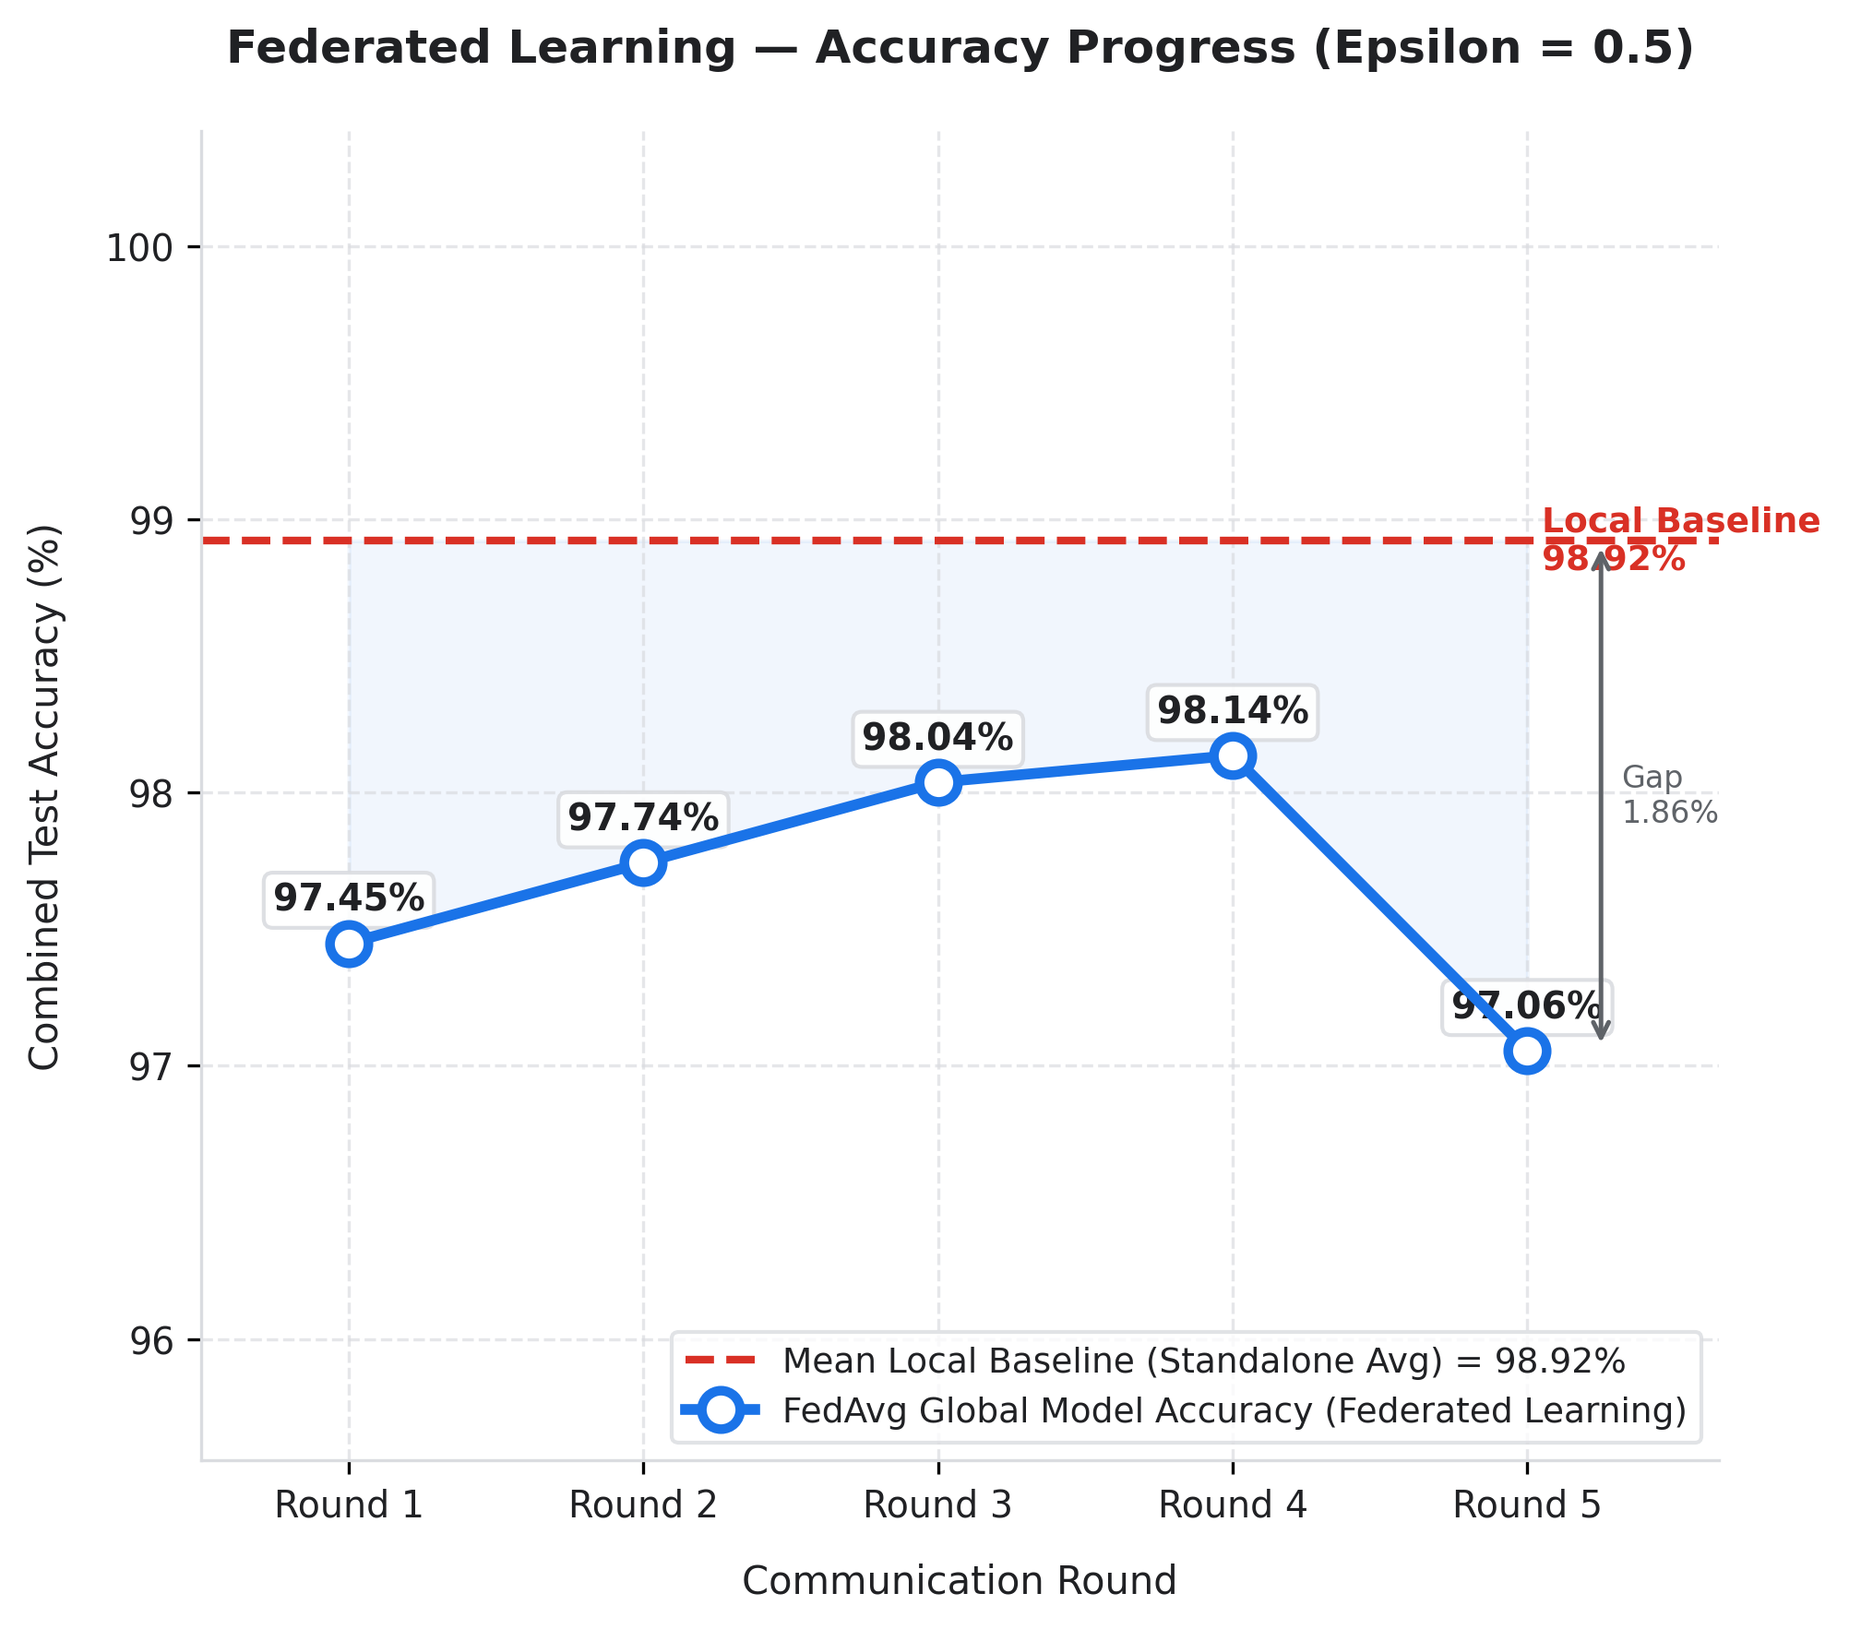
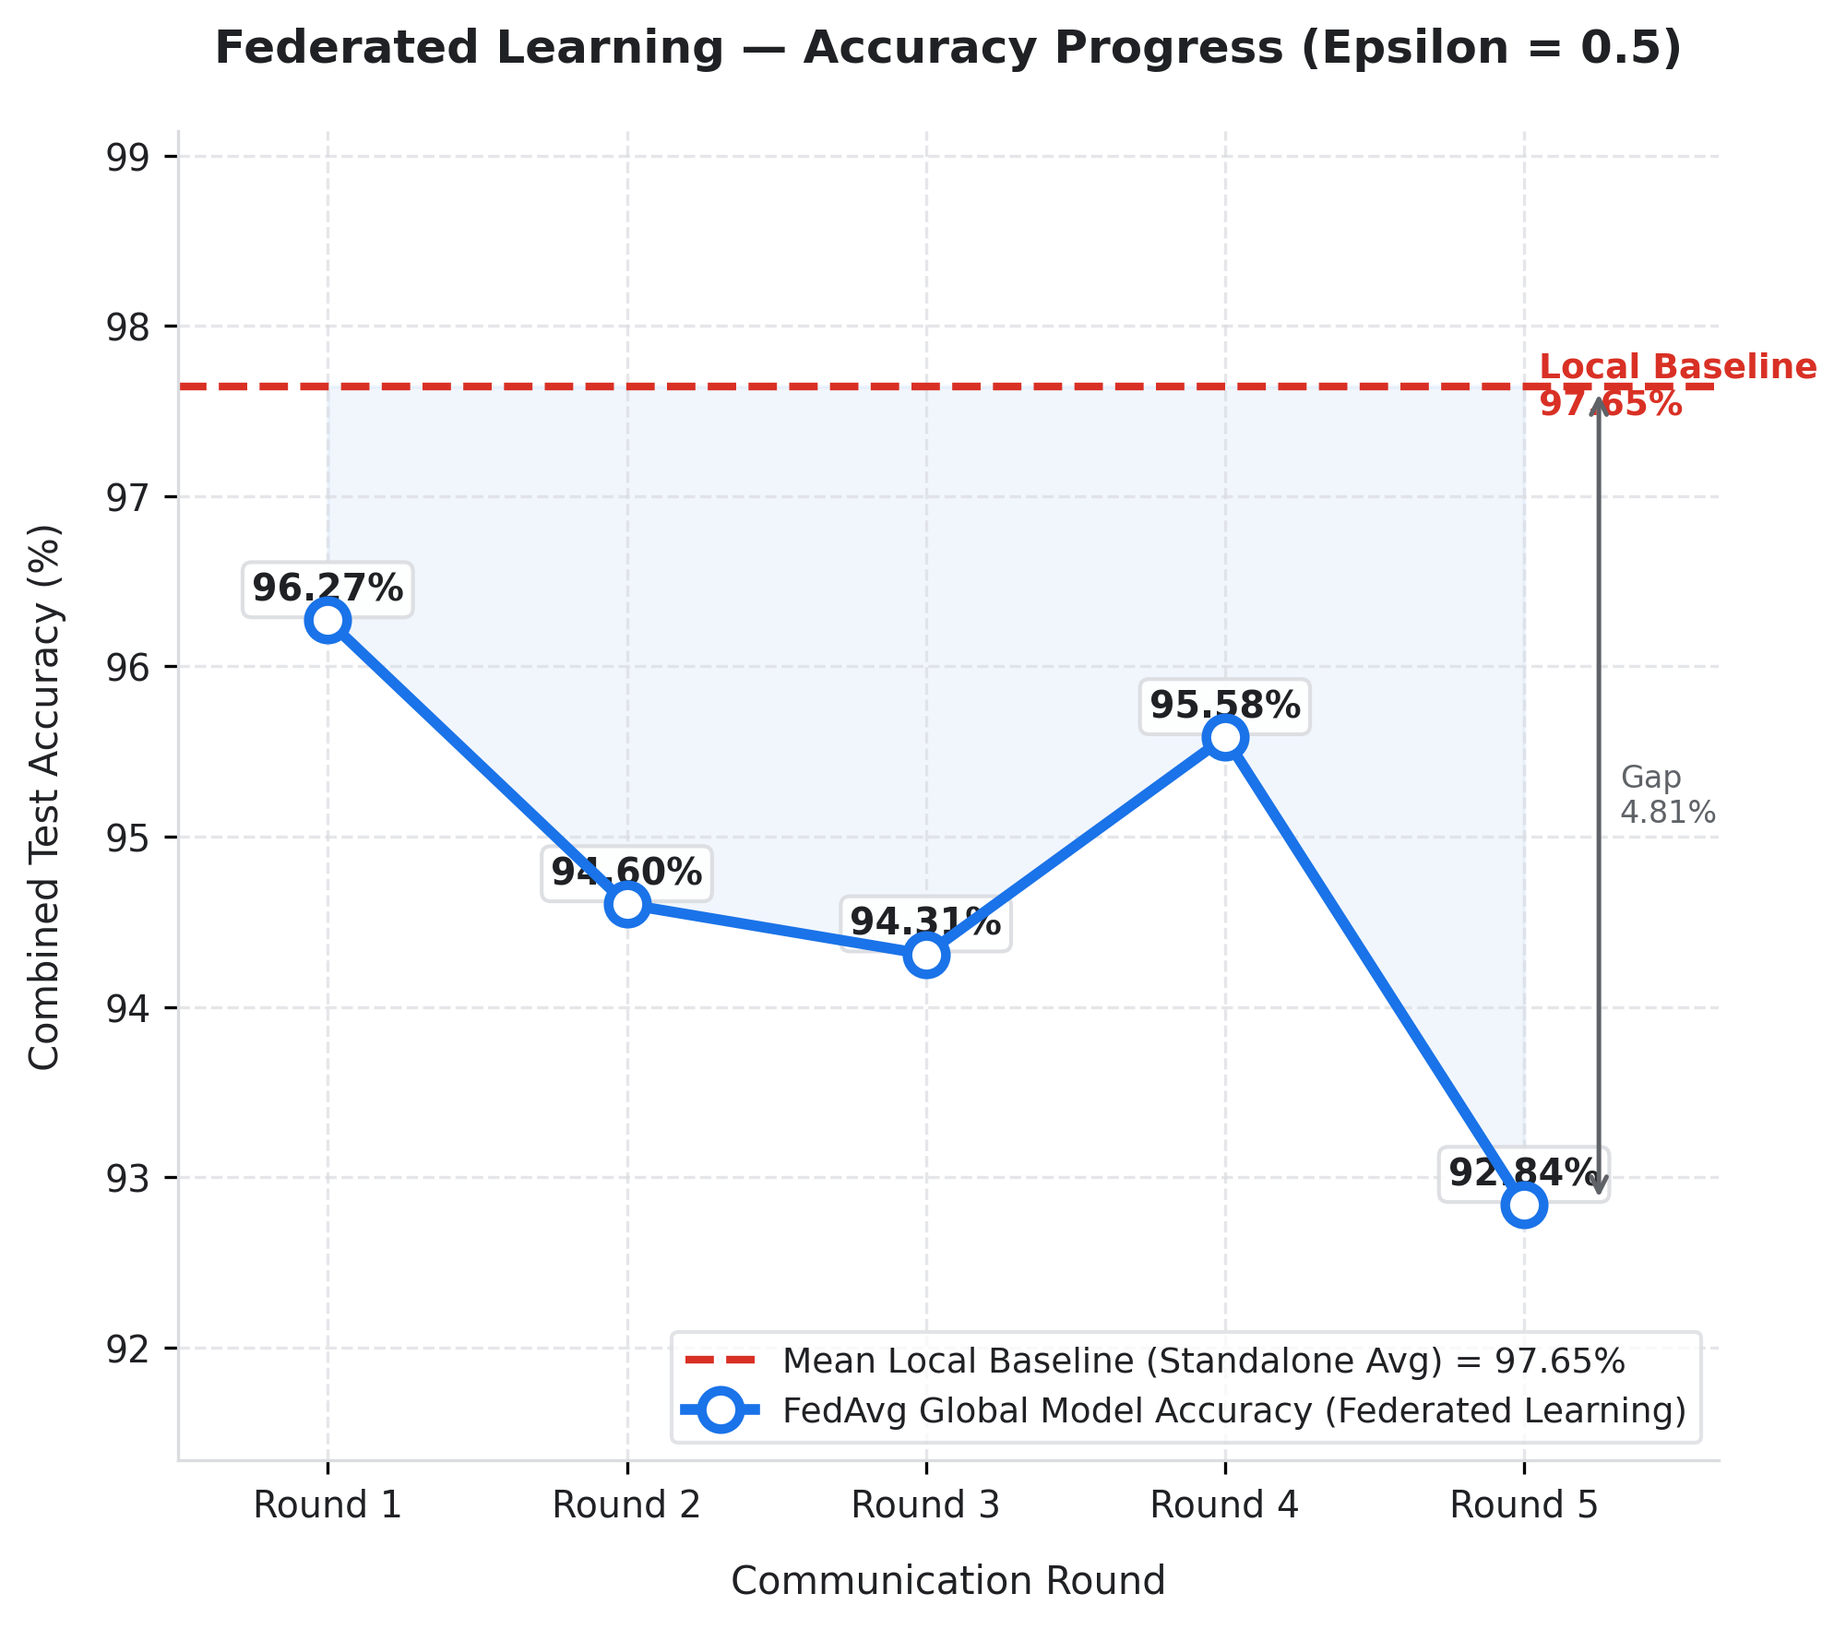
Fix model step counter decay bug and correct DP sensitivity calculation

diff --git a/machine.py b/machine.py
@@ -1,0 +1,103 @@
+# -*- coding: utf-8 -*-
+"""
+Standalone Client Execution Script
+Evaluates Machine 1, Machine 2, and Machine 3 independently without Federated Aggregation.
+"""
+
+import sys
+import os
+import argparse
+import warnings
+from sklearn.metrics import accuracy_score, confusion_matrix
+
+sys.stdout.reconfigure(encoding='utf-8', errors='replace')
+warnings.filterwarnings('ignore')
+
+from machine1 import Machine1
+from machine2 import Machine2
+from machine3 import Machine3
+
+def main():
+    parser = argparse.ArgumentParser(description="Standalone Client Evaluation")
+    parser.add_argument("--no-dp", action="store_true", help="Run without Differential Privacy")
+    parser.add_argument("-e", "--epsilon", type=float, default=None, help="Privacy Budget (Epsilon)")
+    args, unknown = parser.parse_known_args()
+
+    use_dp = not args.no_dp
+
+    print("================================================================")
+    print("Standalone Client Execution")
+    if not use_dp:
+        global_epsilon = 0.5
+        print("Differential Privacy: Disabled")
+    else:
+        if args.epsilon is not None:
+            global_epsilon = args.epsilon
+        else:
+            try:
+                user_eps = input("Enter Privacy Budget (Epsilon) [default: 0.5]: ").strip()
+                global_epsilon = float(user_eps) if user_eps else 0.5
+            except Exception:
+                global_epsilon = 0.5
+
+        if global_epsilon <= 0:
+            print("Error: Epsilon must be strictly greater than 0.")
+            sys.exit(1)
+
+        print(f"Differential Privacy: Enabled (Epsilon = {global_epsilon})")
+    print("================================================================\n")
+
+    m1 = Machine1(epsilon=global_epsilon)
+    m2 = Machine2(epsilon=global_epsilon)
+    m3 = Machine3(epsilon=global_epsilon)
+
+    clients = [m1, m2, m3]
+    names = ["Machine 1", "Machine 2", "Machine 3"]
+
+    print("Evaluating standalone models...")
+    print("-" * 55)
+
+    local_accuracies = []
+    all_y_true = []
+    all_y_pred = []
+
+    for idx, m in enumerate(clients):
+        m.initialize_model()
+        m.local_train(epochs=15)
+
+        if use_dp:
+            coef, intercept = m.get_dp_weights()
+            m.set_weights(coef, intercept)
+        else:
+            coef, intercept = m.get_weights()
+
+        X_te, y_te = m.get_test_data()
+        preds = m.model.predict(X_te)
+        acc = accuracy_score(y_te, preds)
+
+        local_accuracies.append(acc)
+        all_y_true.extend(y_te)
+        all_y_pred.extend(preds)
+
+        print(f"  {names[idx]:<12} | Train Samples: {m.get_train_size():<5} | Test Accuracy: {acc*100:.2f}%")
+
+    print("\n=================== LOCAL MODELS SUMMARY ===================")
+    print(f"  {'Client':<15} {'Train Samples':>15} {'Test Accuracy':>15}")
+    print(f"  {'-'*47}")
+    for idx in range(len(clients)):
+        sample_cnt = clients[idx].get_train_size()
+        print(f"  {names[idx]:<15} {sample_cnt:>15} {local_accuracies[idx]*100:>14.2f}%")
+    print(f"  {'-'*47}\n")
+
+    class_names = ['Normal', 'Mild Event', 'Moderate Event', 'Severe Event']
+    cm = confusion_matrix(all_y_true, all_y_pred, labels=[0, 1, 2, 3])
+
+    print("Combined Confusion Matrix:")
+    print(f"  {'Actual / Predicted':<20} {'Normal':<10} {'Mild':<10} {'Moderate':<10} {'Severe':<10}")
+    print(f"  {'-'*64}")
+    for i, name in enumerate(class_names):
+        print(f"  {name:<20} {cm[i, 0]:<10} {cm[i, 1]:<10} {cm[i, 2]:<10} {cm[i, 3]:<10}")
+    print()
+
+if __name__ == "__main__":
+    main()

diff --git a/machine1.py b/machine1.py
@@ -16,7 +16,7 @@ from sklearn.model_selection import train_test_split
 
 # ── CONFIG ─────────────────────────────────────────────────
 DATA_FILE   = os.path.join(os.path.dirname(__file__), "machine1_data.json")
-ALPHA       = 0.01   # Regularization parameter
+ALPHA       = 0.1   # Regularization parameter
 SEED        = 42
 
 class Machine1:
@@ -63,6 +63,11 @@ class Machine1:
         self.n_samples = len(self.X_train)
 
     def initialize_model(self):
+        # Recreate model to reset step counter t_ and optimizer state completely
+        self.model = SGDClassifier(
+            loss='log_loss', penalty='l2', alpha=self.alpha,
+            fit_intercept=True, warm_start=True, random_state=SEED
+        )
         # Call partial_fit once with dummy subset to initialize weights shape
         self.model.partial_fit(self.X_train[:4], [0, 1, 2, 3], classes=[0, 1, 2, 3])
         # Reset initialized weights to zero
@@ -77,6 +82,8 @@ class Machine1:
         """Updates local model weights with global weights."""
         self.model.coef_ = coef.copy()
         self.model.intercept_ = intercept.copy()
+        # Reset step counter so local training starts with a fresh learning rate schedule
+        self.model.t_ = 1.0
 
     def local_train(self, epochs=5):
         """Trains local model for a few epochs on local training set."""
@@ -88,16 +95,20 @@ class Machine1:
         Applies Laplace Output Perturbation DP to local weights.
         
         Sensitivity Formula:
-            L2 Sensitivity ΔW = 2 / (N * alpha)
-            where N = local sample size, alpha = L2 regularization strength.
+            L2 Sensitivity ΔW = 2 * R / (N * alpha)
+            where N = local sample size, alpha = L2 regularization strength,
+            and R = maximum L2 norm of the input feature vectors.
             
         Laplace Scale:
             b = ΔW / epsilon
         """
         coef, intercept = self.get_weights()
         
+        # Calculate maximum L2 norm of the features
+        R = np.max(np.linalg.norm(self.X_train, axis=1))
+        
         # Calculate sensitivity and noise scale
-        sensitivity = 2.0 / (self.n_samples * self.alpha)
+        sensitivity = (2.0 * R) / (self.n_samples * self.alpha)
         scale = sensitivity / self.epsilon
         
         # Generate and add Laplace noise
@@ -116,9 +127,10 @@ class Machine1:
         return self.n_samples
 
     def get_dp_info(self):
-        sensitivity = 2.0 / (self.n_samples * self.alpha)
+        R = np.max(np.linalg.norm(self.X_train, axis=1))
+        sensitivity = (2.0 * R) / (self.n_samples * self.alpha)
         scale = sensitivity / self.epsilon
-        return f"Output Perturbation DP | Sensitivity={sensitivity:.6f} | Scale={scale:.6f}"
+        return f"Output Perturbation DP | Sensitivity={sensitivity:.6f} | Scale={scale:.6f} | MaxNorm(R)={R:.4f}"
 
 # ── STANDALONE TEST ────────────────────────────────────────
 if __name__ == "__main__":

diff --git a/machine2.py b/machine2.py
@@ -16,7 +16,7 @@ from sklearn.model_selection import train_test_split
 
 # ── CONFIG ─────────────────────────────────────────────────
 DATA_FILE   = os.path.join(os.path.dirname(__file__), "machine2_data.json")
-ALPHA       = 0.01   # Regularization parameter
+ALPHA       = 0.1   # Regularization parameter
 SEED        = 42
 
 class Machine2:
@@ -63,6 +63,11 @@ class Machine2:
         self.n_samples = len(self.X_train)
 
     def initialize_model(self):
+        # Recreate model to reset step counter t_ and optimizer state completely
+        self.model = SGDClassifier(
+            loss='log_loss', penalty='l2', alpha=self.alpha,
+            fit_intercept=True, warm_start=True, random_state=SEED
+        )
         # Call partial_fit once with dummy subset to initialize weights shape
         self.model.partial_fit(self.X_train[:4], [0, 1, 2, 3], classes=[0, 1, 2, 3])
         # Reset initialized weights to zero
@@ -77,6 +82,8 @@ class Machine2:
         """Updates local model weights with global weights."""
         self.model.coef_ = coef.copy()
         self.model.intercept_ = intercept.copy()
+        # Reset step counter so local training starts with a fresh learning rate schedule
+        self.model.t_ = 1.0
 
     def local_train(self, epochs=5):
         """Trains local model for a few epochs on local training set."""
@@ -88,16 +95,20 @@ class Machine2:
         Applies Laplace Output Perturbation DP to local weights.
         
         Sensitivity Formula:
-            L2 Sensitivity ΔW = 2 / (N * alpha)
-            where N = local sample size, alpha = L2 regularization strength.
+            L2 Sensitivity ΔW = 2 * R / (N * alpha)
+            where N = local sample size, alpha = L2 regularization strength,
+            and R = maximum L2 norm of the input feature vectors.
             
         Laplace Scale:
             b = ΔW / epsilon
         """
         coef, intercept = self.get_weights()
         
+        # Calculate maximum L2 norm of the features
+        R = np.max(np.linalg.norm(self.X_train, axis=1))
+        
         # Calculate sensitivity and noise scale
-        sensitivity = 2.0 / (self.n_samples * self.alpha)
+        sensitivity = (2.0 * R) / (self.n_samples * self.alpha)
         scale = sensitivity / self.epsilon
         
         # Generate and add Laplace noise
@@ -116,9 +127,10 @@ class Machine2:
         return self.n_samples
 
     def get_dp_info(self):
-        sensitivity = 2.0 / (self.n_samples * self.alpha)
+        R = np.max(np.linalg.norm(self.X_train, axis=1))
+        sensitivity = (2.0 * R) / (self.n_samples * self.alpha)
         scale = sensitivity / self.epsilon
-        return f"Output Perturbation DP | Sensitivity={sensitivity:.6f} | Scale={scale:.6f}"
+        return f"Output Perturbation DP | Sensitivity={sensitivity:.6f} | Scale={scale:.6f} | MaxNorm(R)={R:.4f}"
 
 # ── STANDALONE TEST ────────────────────────────────────────
 if __name__ == "__main__":

diff --git a/machine3.py b/machine3.py
@@ -16,7 +16,7 @@ from sklearn.model_selection import train_test_split
 
 # ── CONFIG ─────────────────────────────────────────────────
 DATA_FILE   = os.path.join(os.path.dirname(__file__), "machine3_data.json")
-ALPHA       = 0.01   # Regularization parameter
+ALPHA       = 0.1   # Regularization parameter
 SEED        = 42
 
 class Machine3:
@@ -63,6 +63,11 @@ class Machine3:
         self.n_samples = len(self.X_train)
 
     def initialize_model(self):
+        # Recreate model to reset step counter t_ and optimizer state completely
+        self.model = SGDClassifier(
+            loss='log_loss', penalty='l2', alpha=self.alpha,
+            fit_intercept=True, warm_start=True, random_state=SEED
+        )
         # Call partial_fit once with dummy subset to initialize weights shape
         self.model.partial_fit(self.X_train[:4], [0, 1, 2, 3], classes=[0, 1, 2, 3])
         # Reset initialized weights to zero
@@ -77,6 +82,8 @@ class Machine3:
         """Updates local model weights with global weights."""
         self.model.coef_ = coef.copy()
         self.model.intercept_ = intercept.copy()
+        # Reset step counter so local training starts with a fresh learning rate schedule
+        self.model.t_ = 1.0
 
     def local_train(self, epochs=5):
         """Trains local model for a few epochs on local training set."""
@@ -88,16 +95,20 @@ class Machine3:
         Applies Laplace Output Perturbation DP to local weights.
         
         Sensitivity Formula:
-            L2 Sensitivity ΔW = 2 / (N * alpha)
-            where N = local sample size, alpha = L2 regularization strength.
+            L2 Sensitivity ΔW = 2 * R / (N * alpha)
+            where N = local sample size, alpha = L2 regularization strength,
+            and R = maximum L2 norm of the input feature vectors.
             
         Laplace Scale:
             b = ΔW / epsilon
         """
         coef, intercept = self.get_weights()
         
+        # Calculate maximum L2 norm of the features
+        R = np.max(np.linalg.norm(self.X_train, axis=1))
+        
         # Calculate sensitivity and noise scale
-        sensitivity = 2.0 / (self.n_samples * self.alpha)
+        sensitivity = (2.0 * R) / (self.n_samples * self.alpha)
         scale = sensitivity / self.epsilon
         
         # Generate and add Laplace noise
@@ -116,9 +127,10 @@ class Machine3:
         return self.n_samples
 
     def get_dp_info(self):
-        sensitivity = 2.0 / (self.n_samples * self.alpha)
+        R = np.max(np.linalg.norm(self.X_train, axis=1))
+        sensitivity = (2.0 * R) / (self.n_samples * self.alpha)
         scale = sensitivity / self.epsilon
-        return f"Output Perturbation DP | Sensitivity={sensitivity:.6f} | Scale={scale:.6f}"
+        return f"Output Perturbation DP | Sensitivity={sensitivity:.6f} | Scale={scale:.6f} | MaxNorm(R)={R:.4f}"
 
 # ── STANDALONE TEST ────────────────────────────────────────
 if __name__ == "__main__":

diff --git a/server.py b/server.py
@@ -27,7 +27,7 @@ sys.stdout.reconfigure(encoding='utf-8', errors='replace')
 warnings.filterwarnings('ignore')
 
 # ── IMPORT CLIENTS ─────────────────────────────────────────
-from machine1 import Machine1
+from machine1 import Machine1, ALPHA
 from machine2 import Machine2
 from machine3 import Machine3
 
@@ -53,7 +53,7 @@ if not use_dp:
     global_epsilon = 0.5  # default value for machine initialization
     print("\nConfiguration:")
     print("  Differential Privacy: Disabled")
-    print("  Regularization      : L2 (alpha = 0.01)\n")
+    print(f"  Regularization      : L2 (alpha = {ALPHA})\n")
     dp_enabled_clients = set()
 else:
     if args.epsilon is not None:
@@ -80,7 +80,7 @@ else:
     print(f"  Privacy Budget (eps): {global_epsilon}")
     active_dp_str = ", ".join(f"Machine {x}" for x in sorted(dp_enabled_clients)) if dp_enabled_clients else "None"
     print(f"  DP Active On        : {active_dp_str}")
-    print("  Regularization      : L2 (alpha = 0.01)\n")
+    print(f"  Regularization      : L2 (alpha = {ALPHA})\n")
 
 print("Initializing clients and partitioning dataset...")
 m1 = Machine1(epsilon=global_epsilon)
@@ -114,6 +114,10 @@ print("-" * 64)
 ROUNDS = 5
 history_acc = []
 
+# Re-initialize clients to start Federated Learning with fresh step counters and clean states
+for m in clients:
+    m.initialize_model()
+
 # Initialize global weights to zero (from m1's structure)
 global_coef, global_intercept = m1.get_weights()
 global_coef.fill(0.0)
@@ -137,9 +141,11 @@ for r in range(1, ROUNDS + 1):
         if use_dp and client_num in dp_enabled_clients:
             noisy_coef, noisy_intercept = m.get_dp_weights()
             if r == 1:
-                sensitivity = 2.0 / (m.get_train_size() * m.alpha)
+                # Calculate maximum L2 norm of the features for printing
+                R = np.max(np.linalg.norm(m.X_train, axis=1))
+                sensitivity = (2.0 * R) / (m.get_train_size() * m.alpha)
                 scale = sensitivity / global_epsilon
-                print(f"    - {names[idx]}: sensitivity = {sensitivity:.4f}, noise scale = {scale:.4f} (DP Enabled)")
+                print(f"    - {names[idx]}: sensitivity = {sensitivity:.4f}, noise scale = {scale:.4f}, max_norm(R) = {R:.4f} (DP Enabled)")
         else:
             noisy_coef, noisy_intercept = m.get_weights()
             if r == 1:
@@ -286,7 +292,12 @@ fig, ax = plt.subplots(figsize=(7.0, 5.0), facecolor=BG_COLOR)
 ax.set_facecolor(BG_COLOR)
 
 if use_dp:
-    scales = [2.0 / (m.get_train_size() * m.alpha * global_epsilon) for m in clients]
+    scales = []
+    for m in clients:
+        R = np.max(np.linalg.norm(m.X_train, axis=1))
+        sensitivity = (2.0 * R) / (m.get_train_size() * m.alpha)
+        scale = sensitivity / global_epsilon
+        scales.append(scale)
     x_range = np.linspace(-1.5, 1.5, 1000)
 
     from scipy.stats import laplace as laplace_dist
